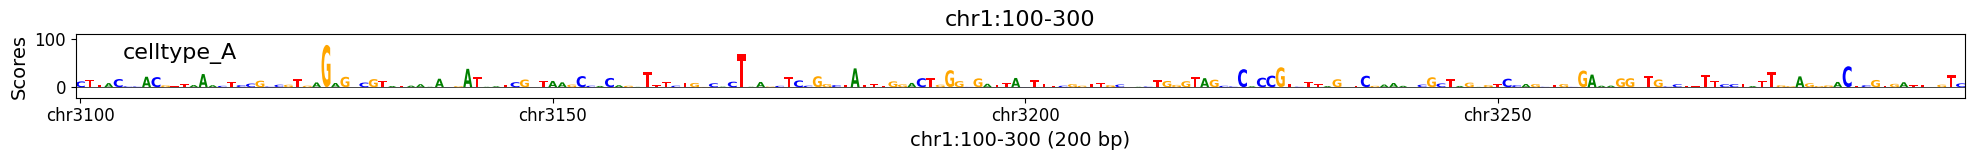
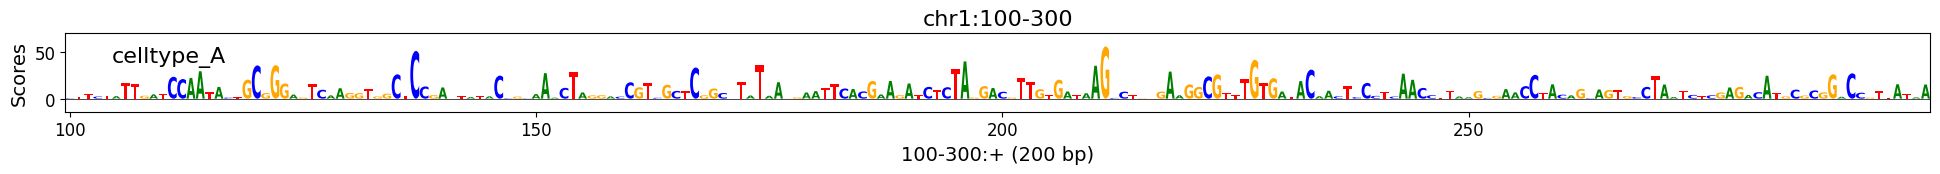
contribution_scores: add base height, update example plot

diff --git a/src/crested/pl/patterns/_contribution_scores.py b/src/crested/pl/patterns/_contribution_scores.py
@@ -77,7 +77,7 @@ def contribution_scores(
     width
         Width of the newly created figure if `ax=None`. Default is n_bases//10.
     height
-        Height of the newly created figure if `ax=None`. Default is 2.25*n_seqs*n_classes.
+        Height of the newly created figure if `ax=None`. Default is 0.5+2.25*n_seqs*n_classes.
     sharex
         Whether to share the x axes of the created plots. Default is False.
     kwargs
@@ -185,7 +185,7 @@ def contribution_scores(
         ax=ax,
         kwargs_dict=kwargs,
         default_width=seq_length//10,
-        default_height=2.25*total_plots,
+        default_height=0.5+2.25*total_plots,
         nrows=total_plots,
         default_sharex=False,
         default_sharey=False
